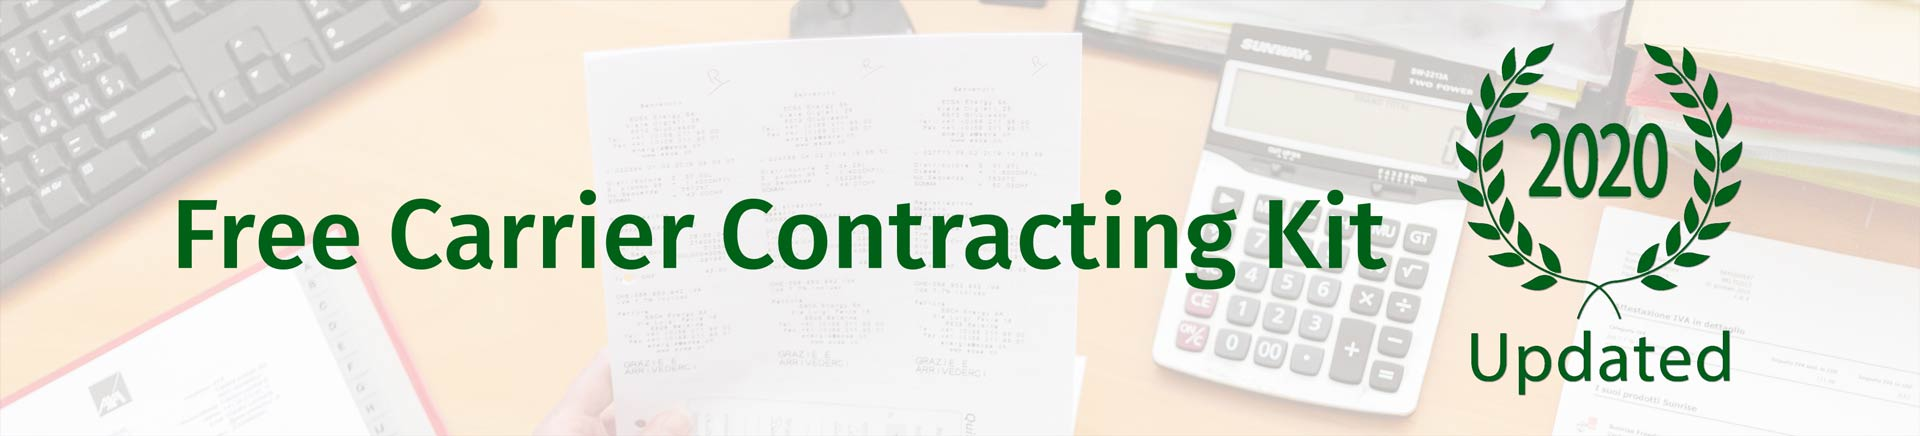
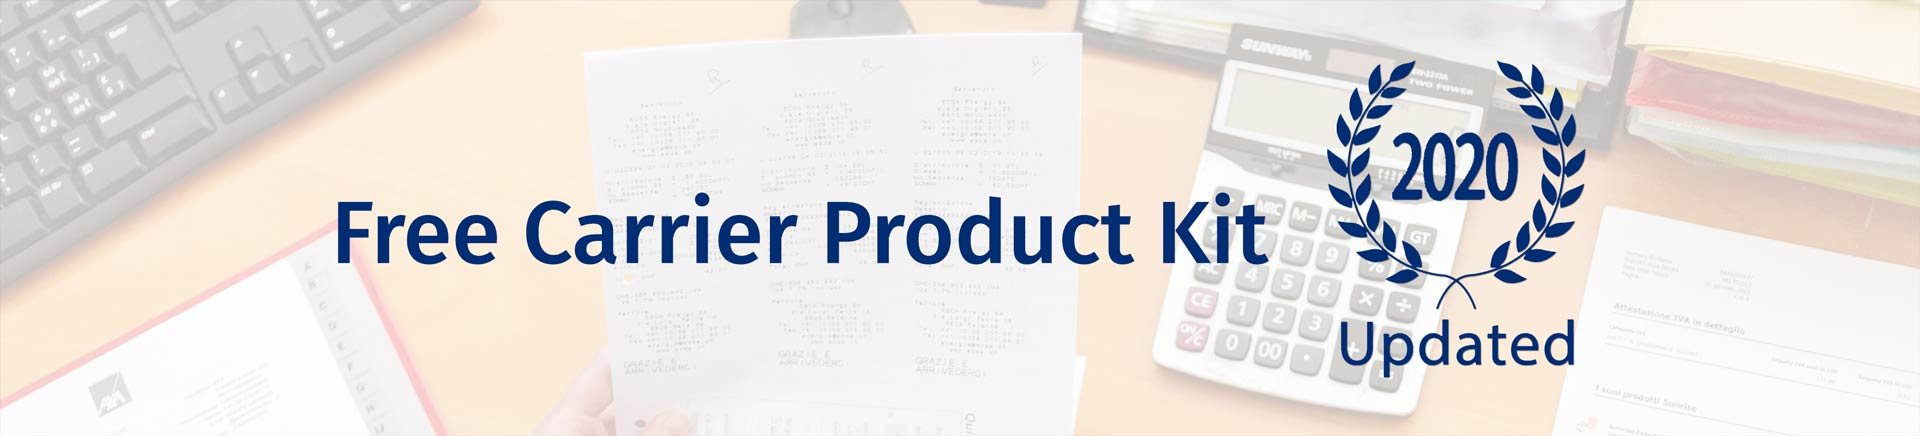
Updating `Free Carrier Contracting Kit` to `Free Carrier Product Kit`

Changed region(s): [[0.0938, 0.0894, 0.9062, 0.8945]]

diff --git a/lib/html/free-carrier-contracting-kit.html b/lib/html/free-carrier-contracting-kit.html
@@ -22,9 +22,9 @@
                                                 </div>
                                                 <div class="elementor-cta__content">
                                                         <h2 class="elementor-cta__title elementor-cta__content-item elementor-content-item">
-                                                                Request a Free Carrier Contracting Kit </h2>
+                                                                Request a Free Carrier Product Kit </h2>
                                                         <div class="elementor-cta__description elementor-cta__content-item elementor-content-item">
-                                                                Let us email you a contracting kit for any of the dozens of insurance carriers we represent. Kits typically include brochures, commissions, rates, and underwriting guides all specific to your state. </div>
+                                                                Let us email you a product kit for any of the dozens of insurance carriers we represent. Kits typically include brochures, commissions, rates, and underwriting guides all specific to your state. </div>
                                                         <div class="elementor-cta__button-wrapper elementor-cta__content-item elementor-content-item">
                                                                 <span class="elementor-cta__button elementor-button elementor-size-sm">
                                                                         Get Your Kit Now! </span>
